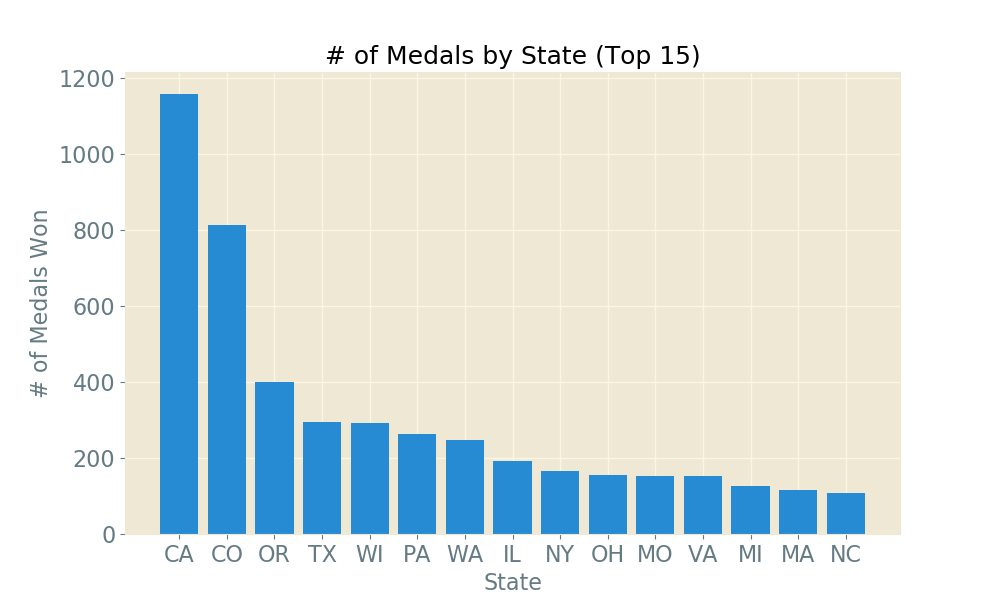
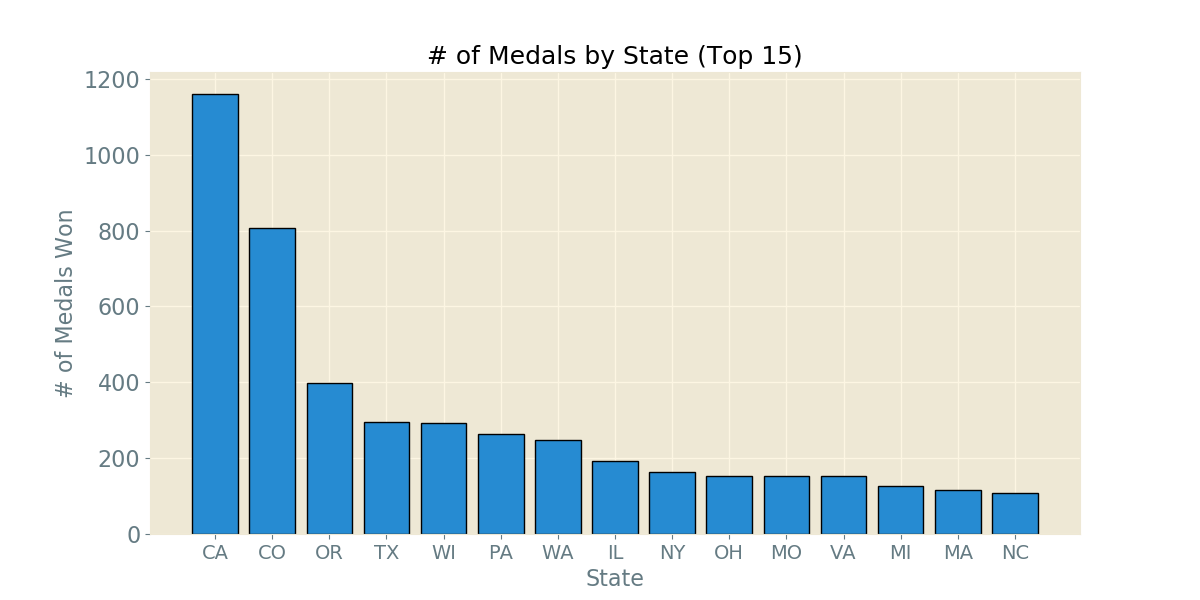
cleaned up code

diff --git a/src/eda.py b/src/eda.py
@@ -4,20 +4,91 @@ import matplotlib.pyplot as plt
 from geocode_cities import geocode_cities
 
 def create_line_plot(x_vals, y_vals, x_label, y_label, title, filename):
+    # Set plotting styles
+    plt.style.use("Solarize_Light2")
+    plt.rcParams.update({'font.size': 16})
     fig, ax = plt.subplots(1, 1, figsize=(10, 6))
     ax.plot(x_vals, y_vals)
     ax.set_xlabel(x_label, fontsize=16)
     ax.set_ylabel(y_label, fontsize=16)
     ax.set_title(title, fontsize=18)
-
     plt.savefig(f'images/{filename}')
     plt.close('all')
     return fig
 
+def create_bar_chart_medals(df, groupby_col, n, cluster_medals=True, proportional=False):
+    df_state_winners = df.copy()
+    # Drop honorable mentions
+    df_state_winners = df_state_winners[df_state_winners["Medal"] != "Honorable Mention"]
+
+    # Coallate totals of all medals
+    df_total_medals = df_state_winners.groupby(groupby_col).count().reset_index()[[groupby_col, "Medal"]]
+    df_total_medals = df_total_medals.sort_values(by=['Medal'], ascending=False)
+    df_total_medals = df_total_medals.rename(columns={"Medal": "total_medals"})
+
+    df_golds = df_state_winners[df_state_winners["Medal"] == "Gold"]
+    df_golds = df_golds[[groupby_col, "Medal"]]
+    df_golds = df_golds.groupby(groupby_col).count().reset_index()
+    df_golds = df_golds.rename(columns={"Medal": "gold_medals"})
+
+    df_silvers = df_state_winners[df_state_winners["Medal"] == "Silver"]
+    df_silvers = df_silvers[[groupby_col, "Medal"]]
+    df_silvers = df_silvers.groupby(groupby_col).count().reset_index()
+    df_silvers = df_silvers.rename(columns={"Medal": "silver_medals"})
+
+    df_bronze = df_state_winners[df_state_winners["Medal"] == "Bronze"]
+    df_bronze = df_bronze[[groupby_col, "Medal"]]
+    df_bronze = df_bronze.groupby(groupby_col).count().reset_index()
+    df_bronze = df_bronze.rename(columns={"Medal": "bronze_medals"})
+
+    # Merge medal totals to one dataframe
+    df_total_medals = df_total_medals.merge(df_golds, on=groupby_col).merge(df_silvers, on=groupby_col).merge(df_bronze, on=groupby_col)
+    df_total_medals_top = df_total_medals.head(n)
+    
+
+
+    if df_total_medals_top[groupby_col].str.len().max() >= 5:
+        fig, ax = plt.subplots(1, 1, figsize=(12, 8))
+        x_label_rot = 30
+        ha = 'right'
+        plt.tight_layout(pad=3)
+        if df_total_medals_top[groupby_col].str.len().max() >= 20:
+            x_label_font_size = 10
+            fig.subplots_adjust(bottom=.25)
+        else:
+            x_label_font_size = 12
+            fig.subplots_adjust(bottom=.2)
+    else:
+        fig, ax = plt.subplots(1, 1, figsize=(12, 6))
+        x_label_rot = 0
+        ha = 'center'
+        x_label_font_size = 14
+
+    plt.xticks(rotation=x_label_rot, fontsize=x_label_font_size, ha=ha)
+    ax.set_ylabel("# of Medals Won", fontsize=16)
+    ax.set_title(f"# of Medals by {groupby_col} (Top {n})", fontsize=18)
+    ax.set_xlabel(groupby_col, fontsize=16)
+    ax.set_xlabel(groupby_col, fontsize=16)
+    
+    file_suffix = ""
+    if cluster_medals:
+        x = np.arange(len(df_total_medals_top[groupby_col]))
+        width = 0.2
+        ax.bar(x - width, df_total_medals_top['gold_medals'], width, label='Gold', color="#f5bf42", edgecolor="black")
+        ax.bar(x, df_total_medals_top['silver_medals'], width, label='Silver', color="#949494", edgecolor="black")
+        ax.bar(x + width, df_total_medals_top['bronze_medals'], width, label='Bronze', color="#c47600", edgecolor="black")
+        ax.set_xticks(x)
+        ax.set_xticklabels(df_total_medals_top[groupby_col])
+        ax.legend()
+        file_suffix += "_clustered"
+    else:
+        ax.bar(df_total_medals_top[groupby_col], df_total_medals_top['total_medals'], edgecolor="black")
+
+    plt.savefig(f'images/{groupby_col.lower()}_medals{file_suffix}.png')
+    plt.close('all')
+    return fig
+
 if __name__ == "__main__":
-    # Set plotting styles
-    plt.style.use("Solarize_Light2")
-    plt.rcParams.update({'font.size': 16})
 
     df = pd.read_csv('data/cleaned_gabf_winners.csv', index_col=0)
 
@@ -44,55 +115,15 @@ if __name__ == "__main__":
 
     # States that win the most
 
-    df_state_winners = df.copy()
-    # Drop honorable mentions
-    df_state_winners = df_state_winners[df_state_winners["Medal"] != "Honorable Mention"]
+    # TODO
+    # Add top breweries
+    create_bar_chart_medals(df, "State", n=15, cluster_medals=False)
+    create_bar_chart_medals(df, "State", n=15, cluster_medals=True)
+    
 
-    df_state_medals = df_state_winners.groupby('State').count().reset_index()[["State", "Medal"]]
-    df_state_medals = df_state_medals.sort_values(by=['Medal'], ascending=False)
-    df_state_medals = df_state_medals.rename(columns={"Medal": "total_medals"})
+    create_bar_chart_medals(df, "Brewery", n=15, cluster_medals=False)
+    create_bar_chart_medals(df, "Brewery", n=15, cluster_medals=True)
 
-    df_state_golds = df_state_winners[df_state_winners["Medal"] == "Gold"]
-    df_state_golds = df_state_golds[["State", "Medal"]]
-    df_state_golds = df_state_golds.groupby('State').count().reset_index()
-    df_state_golds = df_state_golds.rename(columns={"Medal": "gold_medals"})
-
-    df_state_silvers = df_state_winners[df_state_winners["Medal"] == "Silver"]
-    df_state_silvers = df_state_silvers[["State", "Medal"]]
-    df_state_silvers = df_state_silvers.groupby('State').count().reset_index()
-    df_state_silvers = df_state_silvers.rename(columns={"Medal": "silver_medals"})
-
-    df_state_bronze = df_state_winners[df_state_winners["Medal"] == "Bronze"]
-    df_state_bronze = df_state_bronze[["State", "Medal"]]
-    df_state_bronze = df_state_bronze.groupby('State').count().reset_index()
-    df_state_bronze = df_state_bronze.rename(columns={"Medal": "bronze_medals"})
-
-    df_state_medals = df_state_medals.merge(df_state_golds, on='State').merge(df_state_silvers, on='State').merge(df_state_bronze, on='State')
-    df_state_medals_top_15 = df_state_medals.head(15)
-
-    fig, ax = plt.subplots(1, 1, figsize=(10, 6))
-    ax.bar(df_state_medals_top_15['State'], df_state_medals_top_15['total_medals'])
-    ax.set_xlabel("State", fontsize=16)
-    ax.set_ylabel("# of Medals Won", fontsize=16)
-    ax.set_title("# of Medals by State (Top 15)", fontsize=18)
-    plt.savefig('images/state_medals.png')
-    plt.close('all')
-
-    # Grouped bar chart
-    fig, ax = plt.subplots(1, 1, figsize=(10, 6))
-
-    x = np.arange(len(df_state_medals_top_15['State']))
-    width = 0.25
-
-    ax.bar(x - width, df_state_medals_top_15['gold_medals'], width, label='Gold', color="#f5bf42", edgecolor="black")
-    ax.bar(x, df_state_medals_top_15['silver_medals'], width, label='Silver', color="#949494", edgecolor="black")
-    ax.bar(x + width, df_state_medals_top_15['bronze_medals'], width, label='Bronze', color="#c47600", edgecolor="black")
-
-    ax.set_xlabel("State", fontsize=16)
-    ax.set_ylabel("# of Medals Won", fontsize=16)
-    ax.set_title("# of Medals by State (Top 15)", fontsize=18)
-    ax.set_xticks(x)
-    ax.set_xticklabels(df_state_medals_top_15['State'])
-    ax.legend()
-    plt.savefig('images/state_medals_broken.png')
-    plt.close('all')
+    df['City'] = df['City'] + ", " + df['State']
+    create_bar_chart_medals(df, "City", n=15, cluster_medals=False)
+    create_bar_chart_medals(df, "City", n=15, cluster_medals=True)

diff --git a/src/state_winners_animation.py b/src/state_winners_animation.py
@@ -8,7 +8,7 @@ import os
 import imageio
 
 def create_mapping_frames(sorted_time_periods, latitutudes, longitudes, colors, labels, jitter=True):
-    plt.rcParams["figure.figsize"] = (14,6)
+    plt.rcParams["figure.figsize"] = (10,6)
     plt.rcParams.update({'font.size': 16})
 
     m = Basemap(projection = 'mill', llcrnrlat = 25, llcrnrlon = -130, urcrnrlat = 50, urcrnrlon = -60, resolution = 'l')
@@ -30,7 +30,13 @@ def create_mapping_frames(sorted_time_periods, latitutudes, longitudes, colors, 
             longitude += random.uniform(-0.5, 0.5)
         x, y = m(longitude, latitude)
 
-        m.plot(x, y, color=colors[i], marker="o", markersize=3.5, label=labels[i] if filenumber == 1 else "_nolegend_")
+        # If first year, create legend
+        if filenumber == 1:
+            label = labels[i] 
+        else:
+            label = "_nolegend_"
+
+        m.plot(x, y, color=colors[i], alpha=0.5, marker="o", markersize=3, label=label)
         
         try:
             if cur_time_period == sorted_time_periods[i+1]:
@@ -44,8 +50,8 @@ def create_mapping_frames(sorted_time_periods, latitutudes, longitudes, colors, 
         except IndexError:
             plt.title(f"Total GABF Medal Wins (as of {cur_time_period})")
             plt.legend(loc="lower right")
-            # Create 5 copies of last frame
-            for i in range(5):
+            # Create 7 copies of last frame
+            for i in range(7):
                 plt.savefig(f"images/map_frames/{filenumber:03d}.png")
                 filenumber += 1
     return
